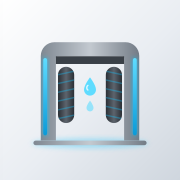
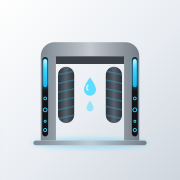
Motyw A2 grafit: jasna belka, kolumna portalu z LED i pierścieniami, światło stanu dnia (turkus/pomarańcz/czerwień), kafelki grafit + kolory stanu, ładowanie z pierścieniami, kanty LED, nowa ikona, przełącznik Animacje; sw v37
Claude-Session: https://claude.ai/code/session_01MnWYxvVbG6X4SEsvd5phNb

Changed region(s): [[0.7222, 0.3056, 0.7778, 0.7778], [0.2222, 0.3056, 0.2778, 0.7778]]

diff --git a/index.html b/index.html
@@ -357,6 +357,58 @@
   .mokro .led,.pb{display:none}
   .kr.sp{animation:none} .kr.sp::after{display:none}
   .kr{opacity:.75}
+
+  /* ===== MOTYW „A2 GRAFIT” (16.11.2026): jasna belka z aluminium, czarna kolumna portalu Christ z LED i pierścieniami,
+     kafelki grafitowe, kolumna = światło stanu dnia (turkus / pomarańcz / czerwień). Animacje tylko transform+opacity. ===== */
+  :root{--led:#3fd6ff;--ledc:#3fd6ff;--ledg:rgba(63,214,255,.7);
+    --ant:linear-gradient(160deg,#7d858e 0%,#5c636b 55%,#474d54 100%);
+    --heroBg:linear-gradient(165deg,#ffffff 0%,#f1f4f7 60%,#e4e9ee 100%);--heroInk:#141618;--heroSm:#0089c2;
+    --kaf:linear-gradient(160deg,#7d858e 0%,#5c636b 55%,#474d54 100%)}
+  @media (prefers-color-scheme:dark){:root:not([data-t=jasny]){--heroBg:linear-gradient(165deg,#2a2e33 0%,#1d2024 60%,#151719 100%);--heroInk:#f2f4f6;--heroSm:#3fd6ff;
+    --kaf:linear-gradient(160deg,#5a6169 0%,#41474e 55%,#30353a 100%);--ant:linear-gradient(160deg,#5a6169 0%,#41474e 55%,#30353a 100%)}}
+  :root[data-t=ciemny]{--heroBg:linear-gradient(165deg,#2a2e33 0%,#1d2024 60%,#151719 100%);--heroInk:#f2f4f6;--heroSm:#3fd6ff;
+    --kaf:linear-gradient(160deg,#5a6169 0%,#41474e 55%,#30353a 100%);--ant:linear-gradient(160deg,#5a6169 0%,#41474e 55%,#30353a 100%)}
+  .hero{background:var(--heroBg);color:var(--heroInk);padding-left:48px;
+    box-shadow:inset 0 1px 0 rgba(255,255,255,.7),inset 0 0 0 1px var(--line),0 10px 26px rgba(0,60,110,.12)}
+  .hero::before{background:repeating-linear-gradient(90deg,rgba(128,128,128,.035) 0 1px,transparent 1px 3px)}
+  .hero::after{display:none}
+  .hero small{color:var(--heroSm)}
+  /* kolumna portalu */
+  .hero>.pkol,.ladow>.pkol{position:absolute;left:0;top:0;bottom:0;right:auto;inset:0 auto 0 0;width:30px;z-index:2;overflow:hidden;border-radius:26px 0 0 26px;
+    background:linear-gradient(90deg,#0d0f11,#1c1f23 70%,#2a2e33);pointer-events:none}
+  .mokro.pkol .led{display:block;position:absolute;left:7px;right:7px;top:14px;height:30%;max-height:120px;border-radius:4px;
+    background:linear-gradient(180deg,#fff 0%,var(--ledc) 30%,var(--ledc));box-shadow:0 0 10px var(--ledc),0 0 24px var(--ledg);transition:background .6s,box-shadow .6s}
+  .pkol i{position:absolute;left:50%;bottom:-18px;width:var(--w);height:var(--w);margin-left:calc(var(--w) / -2);border:2px solid var(--ledc);border-radius:50%;
+    box-shadow:0 0 6px var(--ledg);opacity:0;will-change:transform,opacity;animation:pier var(--t) linear var(--d) infinite}
+  @keyframes pier{0%{transform:translate3d(0,0,0);opacity:0}10%{opacity:1}65%{opacity:.85}100%{transform:translate3d(var(--x),-260px,0);opacity:0}}
+  .hero.stop .pkol i,.ladow.stop .pkol i{animation-play-state:paused}
+  /* światło stanu dnia */
+  .hero[data-s=uwaga]{--ledc:#ff9f0a;--ledg:rgba(255,159,10,.65)}
+  .hero[data-s=alarm]{--ledc:#ff453a;--ledg:rgba(255,69,58,.7)}
+  .hero[data-s=alarm] .pkol .led{animation:alarm 1.4s ease-in-out infinite}
+  @keyframes alarm{50%{opacity:.35}}
+  /* kafelki grafit (+ kolory stanu) */
+  .hero .hs div{background:var(--kaf);box-shadow:inset 0 1px 0 rgba(255,255,255,.3),inset 0 -1px 0 rgba(0,0,0,.15),0 5px 14px rgba(40,50,60,.2)}
+  .hero .hs b{color:#fff}
+  .hero .hs div:first-child b{color:#6fe6ff;text-shadow:0 0 12px rgba(63,214,255,.55)}
+  .hero .hs span{color:rgba(255,255,255,.88)}
+  .hero .hs div.s-o{background:linear-gradient(160deg,#ffb340,#f08a00 60%,#d97400)} .hero .hs div.s-o b{color:#fff;text-shadow:none}
+  .hero .hs div.s-r{background:linear-gradient(160deg,#ff6961,#e5281e 60%,#c51d14)} .hero .hs div.s-r b{color:#fff;text-shadow:none}
+  .hero .hs div.s-r::after{content:"";position:absolute;inset:0;border-radius:inherit;box-shadow:0 0 0 2px rgba(255,69,58,.6),0 0 18px rgba(255,69,58,.55);animation:alarm 1.4s ease-in-out infinite;pointer-events:none}
+  .hero .hs div{position:relative}
+  /* stare „mokre szkło” wyłączone */
+  .kr,.pb,.mokro:not(.pkol){display:none}
+  /* LED-kanty: nagłówki kart */
+  .card h3::before{content:"";flex:0 0 auto;width:3px;height:15px;border-radius:2px;background:var(--led);box-shadow:0 0 8px var(--ledg)}
+  /* ładowanie: kolumna z pierścieniami zamiast szarych pasków */
+  .ladow{position:relative;overflow:hidden;height:220px;border-radius:26px;margin:4px 0 14px;padding:22px 20px 20px 52px;background:var(--heroBg);
+    box-shadow:inset 0 0 0 1px var(--line),0 10px 26px rgba(0,60,110,.1);color:var(--mute);font-weight:600;display:flex;align-items:flex-end}
+  .ladow .pkol i{animation-duration:2.6s!important}
+  html.laduje .hero .pkol i{animation-duration:2.6s!important}
+  /* bez animacji (przełącznik w „Więcej” albo ustawienie systemu) */
+  html.bezanim .pkol i{animation:none;opacity:0}
+  html.bezanim .hero[data-s=alarm] .pkol .led,html.bezanim .hero .hs div.s-r::after{animation:none}
+  @media (prefers-reduced-motion:reduce){.pkol i{opacity:0}}
 </style>
 </head>
 <body>
@@ -368,7 +420,7 @@
     <button class="ib" onclick="load()" aria-label="Odśwież" id="odsw"></button>
   </div>
 </header>
-<main id="main"><div class="sk"></div><div class="sk"></div><div class="sk" style="height:160px"></div></main>
+<main id="main"><div class="ladow"><div class="mokro pkol" id="pk0"></div>Wczytuję dane…</div></main>
 <nav id="bnav"><div class="in" id="nav"></div></nav>
 <div id="det"></div>
 <div id="toast"></div>
@@ -492,16 +544,16 @@ function pillDni(d) {
 
 function load() {
   if (!K || !API) { document.getElementById('main').innerHTML = '<div class="card"><h3>' + I('alert', 1) + 'Brak dostępu</h3>Otwórz aplikację linkiem z bota: napisz <b>/aplikacja</b> w Telegramie i kliknij link. Potem już zawsze z ikony.</div>'; setUpd('brak klucza'); return; }
-  setUpd('odświeżam…'); document.getElementById('odsw').classList.add('spin');
+  setUpd('odświeżam…'); document.getElementById('odsw').classList.add('spin'); document.documentElement.classList.add('laduje');
   api('dane').then(j => {
       // 15.11.2026: bez migania – ekran przerysowujemy tylko gdy dane naprawdę się zmieniły, animacja wejścia tylko przy pierwszym ładowaniu
       const klucz = d => JSON.stringify(Object.assign({}, d, { teraz: '' }));
       const bylo = D ? klucz(D) : null;
-      D = j.dane; document.getElementById('odsw').classList.remove('spin'); setUpd('stan na ' + D.teraz);
+      D = j.dane; document.getElementById('odsw').classList.remove('spin'); document.documentElement.classList.remove('laduje'); setUpd('stan na ' + D.teraz);
       if (bylo === null) { ANIM = true; render(); }
       else if (bylo !== klucz(D)) { ANIM = false; render(); }
     })
-    .catch(e => { document.getElementById('odsw').classList.remove('spin'); setUpd('błąd połączenia');
+    .catch(e => { document.getElementById('odsw').classList.remove('spin'); document.documentElement.classList.remove('laduje'); setUpd('błąd połączenia');
       if (!D) document.getElementById('main').innerHTML = '<div class="card">' + I('alert') + ' ' + esc(e.message) + '<div class="mute">Sprawdź internet i odśwież.</div></div>'; else toast('Nie udało się odświeżyć'); });
 }
 function nav() {
@@ -533,19 +585,14 @@ function render() {
   if (ANIM) { void m.offsetWidth; m.classList.add('anim'); }
   ANIM = false;
 }
-// mokre szkło na kartach „hero”: krople (kilka spływa), pęcherzyki piany w trzech kolorach, światło LED portalu
+// 16.11.2026: kolumna portalu Christ na kartach „hero”: LED u góry + pierścienie płynące w górę (tylko transform/opacity – lekkie)
 function mokro() {
-  let h = '<div class="mokro">';
-  const r = (a, b) => a + Math.random() * (b - a);
-  for (let i = 0; i < 7; i++) { const w = r(5, 12), sp = false;
-    h += '<i class="kr' + (sp ? ' sp' : '') + '" style="left:' + r(4, 94).toFixed(1) + '%;top:' + r(sp ? 4 : 8, sp ? 40 : 88).toFixed(1) + '%;width:' + w.toFixed(1) + 'px;height:' + (w * 1.15).toFixed(1) + 'px' +
-         (sp ? ';--t:' + r(7, 13).toFixed(1) + 's;--d:' + r(0, 6).toFixed(1) + 's;--sl:' + r(25, 60).toFixed(0) + 'px' : '') + '"></i>'; }
-  const kol = ['rgba(255,120,200,.22)', 'rgba(100,210,255,.22)', 'rgba(255,214,10,.2)'];
-  for (let i = 0; i < 0; i++) { const w = r(8, 20);
-    h += '<i class="pb" style="left:' + r(5, 92).toFixed(1) + '%;width:' + w.toFixed(1) + 'px;height:' + w.toFixed(1) + 'px;--c:' + kol[i % 3] + ';--t:' + r(7, 12).toFixed(1) + 's;--d:' + r(0, 8).toFixed(1) + 's;--x:' + r(-18, 18).toFixed(0) + 'px"></i>'; }
-  return h + '</div>';
+  const R = [[12, 7, 0, 2], [8, 9, 2.5, -2], [14, 8, 4.6, 1], [6, 6, 1.3, 0], [10, 10, 6.2, -1], [7, 7.5, 3.7, 2]];
+  return '<div class="mokro pkol"><div class="led"></div>' + R.map(([w, t, d, x]) => '<i style="--w:' + w + 'px;--t:' + t + 's;--d:-' + d + 's;--x:' + x + 'px"></i>').join('') + '</div>';
 }
-function zmocz(el) { (el || document).querySelectorAll('.hero').forEach(x => { if (!x.querySelector('.mokro')) x.insertAdjacentHTML('afterbegin', mokro()); }); }
+// animacja stoi, gdy karta nie jest na ekranie
+const OBS = 'IntersectionObserver' in window ? new IntersectionObserver(e => e.forEach(x => x.target.classList.toggle('stop', !x.isIntersecting))) : null;
+function zmocz(el) { (el || document).querySelectorAll('.hero').forEach(x => { if (!x.querySelector('.mokro')) x.insertAdjacentHTML('afterbegin', mokro()); if (OBS) OBS.observe(x); }); }
 function naglowek(ic, t, sub) {
   return '<div class="phead"><button class="ib" onclick="go(\'wiecej\')">' + I('back') + '</button><div><b>' + t + '</b>' + (sub ? '<span>' + sub + '</span>' : '') + '</div></div>';
 }
@@ -692,12 +739,17 @@ function dzis() {
   const mies = new Date().getFullYear() * 100 + new Date().getMonth() + 1;
   const g = new Date().getHours(), pora = g < 11 ? 'Dzień dobry' : g < 18 ? 'Cześć' : 'Dobry wieczór';
   const poTer = D.myjnie.filter(w => w.dni != null && w.dni < 0).length;
-  let h = '<div class="hero"><small>Serwis myjni · ' + (LS.get('d') === '1' ? 'DEMO · ' : '') + esc(UPD) + '</small><h2>' + pora + ', ' + esc(imieSerw()) + '</h2><div class="hs">' +
+  // 16.11.2026: światło stanu dnia w kolumnie: alarm = nowe zlecenie AWK / myjnia nieczynna, uwaga = coś po terminie
+  const zN = window.zleceniaNowe ? zleceniaNowe() : [], awk = zN.some(p => /AWK|nieczynna/i.test(p.rodzaj || ''));
+  const zadPo = ot.filter(o => /^\d{4}-\d\d-\d\d/.test(String(o.termin || '')) && String(o.termin).slice(0, 10) < dzisIso()).length;
+  const stanDnia = awk ? 'alarm' : (poTer || zadPo) ? 'uwaga' : 'ok';
+  let h = '<div class="hero" data-s="' + stanDnia + '"><small>Serwis myjni · ' + (LS.get('d') === '1' ? 'DEMO · ' : '') + esc(UPD) + '</small><h2>' + pora + ', ' + esc(imieSerw()) + '</h2><div class="hs">' +
     '<div onclick="go(\'ogony\')"><b>' + napr.length + '</b><span>otwarte naprawy</span></div>' +
     '<div onclick="go(\'przeglady\')"><b>' + prz.filter(w => w.dni <= 14).length + '</b><span>przeglądy w 14 dni</span></div>' +
-    (poTer ? '<div onclick="go(\'przeglady\')"><b>' + poTer + '</b><span>po terminie</span></div>' : '') +
+    (poTer ? '<div class="s-o" onclick="go(\'przeglady\')"><b>' + poTer + '</b><span>po terminie</span></div>' : '') +
+    (zadPo ? '<div class="s-o" onclick="go(\'ogony\')"><b>' + zadPo + '</b><span>zadania po terminie</span></div>' : '') +
     (akty.length ? '<div><b>' + akty.length + '</b><span>dokumenty czekają</span></div>' : '') +
-    (window.zleceniaNowe && zleceniaNowe().length ? '<div onclick="document.getElementById(\'zlk\').scrollIntoView({behavior:\'smooth\'})"><b>' + zleceniaNowe().length + '</b><span>nowe zlecenia</span></div>' : '') + '</div></div>';
+    (zN.length ? '<div' + (awk ? ' class="s-r"' : '') + ' onclick="document.getElementById(\'zlk\').scrollIntoView({behavior:\'smooth\'})"><b>' + zN.length + '</b><span>nowe zlecenia' + (awk ? ' · AWK' : '') + '</span></div>' : '') + '</div></div>';
   if (window.zleceniaKarta) h += zleceniaKarta();
   h += terminyRozliczen();
   h += '<div class="tiles">' + kafelRaport() + kafelPremia() + '</div>';
@@ -957,7 +1009,13 @@ function wiecej() {
     '<button onclick="smsUstaw()"><div class="ch">' + I('phone') + '</div><b>SMS z WebCon</b><span>MacroDroid → zlecenia</span></button>' +
     k('wykresy', 'chart', 'Wykresy', 'szczotki, zaliczka, zadania') +
     '<button onclick="window.open(\'' + jsq(D.arkusz) + '\',\'_blank\')"><div class="ch">' + I('doc') + '</div><b>Tabela</b><span>arkusz z danymi</span></button>' +
+    '<button onclick="animacje()"><div class="ch">' + I('spark') + '</div><b>Animacje</b><span>' + (LS.get('anim') === '0' ? 'wyłączone · dotknij, by włączyć' : 'włączone · dotknij, by wyłączyć') + '</span></button>' +
     '</div>';
+}
+// 16.11.2026: pierścienie i mruganie można wyłączyć (słabszy tablet, oszczędzanie baterii)
+function animacje() {
+  const wyl = LS.get('anim') !== '0'; LS.set('anim', wyl ? '0' : '1');
+  document.documentElement.classList.toggle('bezanim', wyl); render(); toast(wyl ? 'Animacje wyłączone' : 'Animacje włączone');
 }
 
 /* ---------- Magazyn ---------- */
@@ -1162,6 +1220,8 @@ function wykresy() {
 
 document.getElementById('odsw').innerHTML = I('refresh');
 ustawMotyw(LS.get('motyw') || 'auto');
+if (LS.get('anim') === '0') document.documentElement.classList.add('bezanim');
+const pk0 = document.getElementById('pk0'); if (pk0) pk0.outerHTML = mokro();
 if ('serviceWorker' in navigator) navigator.serviceWorker.register('sw.js').catch(() => {});
 document.addEventListener('visibilitychange', () => { if (!document.hidden && D) load(); });
 document.getElementById('logo').innerHTML = '<img src="icon-192.png" alt="">';

diff --git a/sw.js b/sw.js
@@ -1,6 +1,6 @@
 // Serwis myjni – service worker: strona zawsze świeża z sieci (no-cache = zawsze sprawdza, GitHub Pages trzyma pliki w cache 10 min), kopia tylko na wypadek braku internetu.
 // 15.11.2026: „Udostępnij → Serwis myjni” (share_target): POST …/udostepnij → plik do cache „udostepnione”, aplikacja wysyła go do Apps Script (udostepnij.js).
-const CACHE = 'myjnie-v36';
+const CACHE = 'myjnie-v37';
 self.addEventListener('install', e => self.skipWaiting());
 self.addEventListener('activate', e => e.waitUntil(self.clients.claim()));
 self.addEventListener('fetch', e => {
